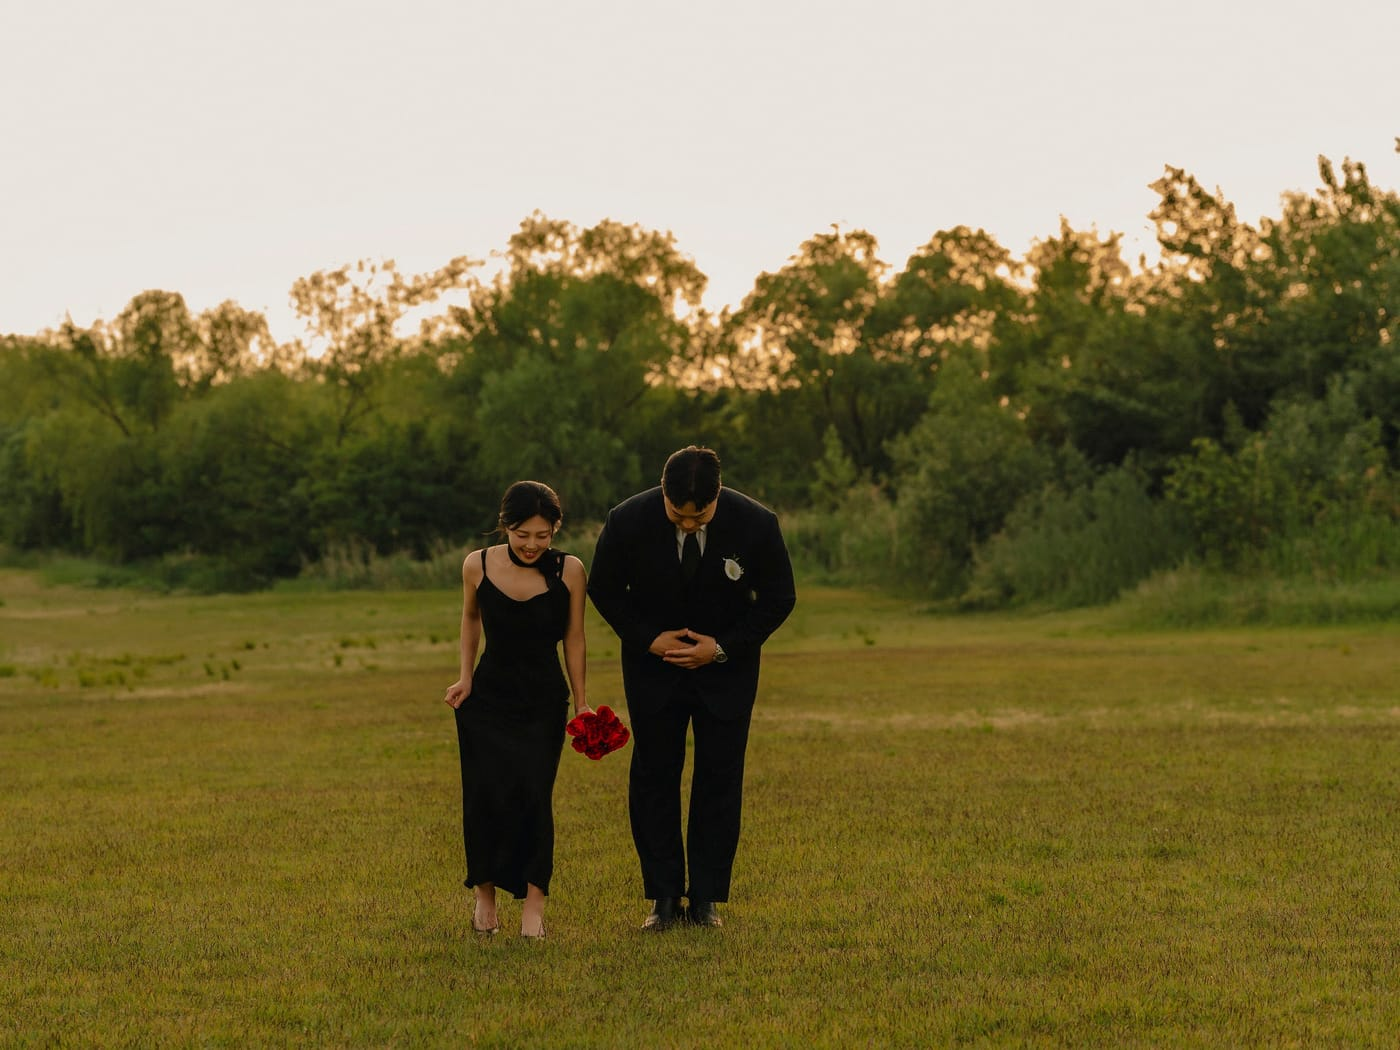
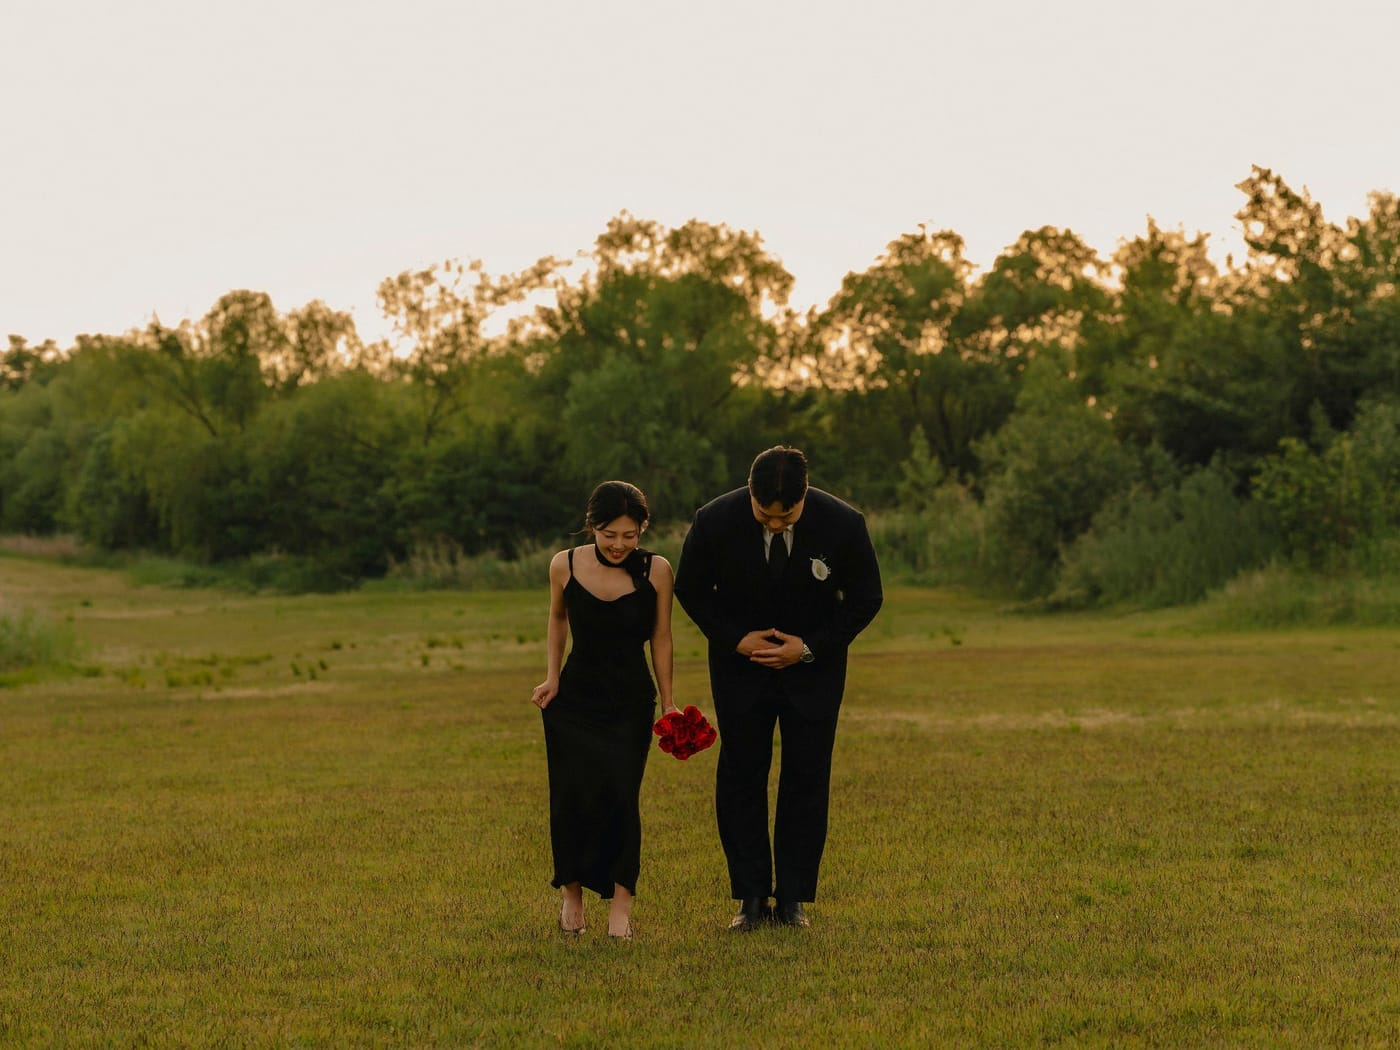
fix: 인물 사진 확대, 갤러리 뷰어 확대 기능, 마무리 사진 중앙 정렬, 크레딧 강조
1) 신랑·신부 카드 사진 확대
   카드가 작아 얼굴이 잘 보이지 않던 문제. 자동 크롭(attention) 대신
   좌표를 직접 지정해 상반신 위주로 잘라냈다. 신부는 특히 얼굴이
   크게 보이도록 조였고, 두 사람의 인물 크기를 서로 맞췄다.
   - build-photos.mjs 에 crop / position 옵션 추가
     (EXIF 회전을 먼저 적용해야 좌표가 눈에 보이는 사진과 일치한다)

2) 갤러리 사진 확대
   전체화면 뷰어에서 두 번 탭 또는 두 손가락으로 최대 4배까지 확대.
   확대 중에는 좌우 스와이프가 넘기기 대신 사진 이동으로 바뀌고,
   드래그 범위는 배율에 맞춰 계산한다. 사진을 넘기거나 ESC 를 누르면
   확대가 풀린다. 하단에 조작 안내 한 줄 추가.

3) 마무리 사진(ending-2) 중앙 정렬
   자동 크롭이 신랑을 화면 중앙에 두고 있었다. 가운데 크롭으로 바꿔
   두 사람 사이가 화면 정중앙에 오도록 했다.

4) 크레딧 강조
   한 줄을 베이지(accent) 세리프 13px 로 올리고, 나머지 설명은
   작은 회색으로 분리했다. ending.creditLead / ending.credit 으로 관리.

검증: tsc 0 / ESLint 0 / build 성공 /
뷰어 확대 366→878px(2.4배)·복원 확인, ending-2 중심선이 두 사람 사이에 위치 /
375·390·393·430·desktop 에서 console error 0, 가로 overflow 0,
탭·갤러리·혼주 연락처·계좌 복사·RSVP·방명록·터치 타깃 44px 전수 확인.

Claude-Session: https://claude.ai/code/session_01MQzpR4nb95WrMaxhiak1n4

diff --git a/src/components/GalleryViewer.tsx b/src/components/GalleryViewer.tsx
@@ -1,6 +1,12 @@
 "use client";
 
-import { AnimatePresence, motion, useReducedMotion, type PanInfo } from "framer-motion";
+import {
+  AnimatePresence,
+  motion,
+  useMotionValue,
+  useReducedMotion,
+  type PanInfo,
+} from "framer-motion";
 import Image from "next/image";
 import { ChevronLeft, ChevronRight, X } from "lucide-react";
 import { useCallback, useEffect, useRef, useState } from "react";
@@ -16,13 +22,30 @@ type Props = {
 
 const SWIPE_DISTANCE = 60;
 const SWIPE_VELOCITY = 380;
+/** 두 번 탭했을 때의 확대 배율 */
+const DOUBLE_TAP_ZOOM = 2.4;
+const MAX_ZOOM = 4;
 
 export function GalleryViewer({ images, startIndex, onClose }: Props) {
   const [[index, direction], setState] = useState<[number, number]>([startIndex, 0]);
   const [mounted, setMounted] = useState(false);
+  const [zoom, setZoom] = useState(1);
   const closeRef = useRef<HTMLButtonElement>(null);
   const draggedAt = useRef(0);
   const reduceMotion = useReducedMotion();
+
+  // 확대했을 때 사진을 움직이기 위한 값
+  const panX = useMotionValue(0);
+  const panY = useMotionValue(0);
+  const stageRef = useRef<HTMLDivElement>(null);
+  const imgRef = useRef<HTMLImageElement>(null);
+  const [panLimit, setPanLimit] = useState({ left: 0, right: 0, top: 0, bottom: 0 });
+
+  const resetZoom = useCallback(() => {
+    setZoom(1);
+    panX.set(0);
+    panY.set(0);
+  }, [panX, panY]);
 
   const paginate = useCallback(
     (delta: number) => {
@@ -36,6 +59,41 @@ export function GalleryViewer({ images, startIndex, onClose }: Props) {
   );
 
   useEffect(() => setMounted(true), []);
+
+  // 사진을 넘기면 확대 상태를 초기화한다.
+  useEffect(() => resetZoom(), [index, resetZoom]);
+
+  /** 현재 배율에서 사진을 얼마나 움직일 수 있는지 계산한다. */
+  const measurePanLimit = useCallback((scale: number) => {
+    const img = imgRef.current;
+    const stage = stageRef.current;
+    if (!img || !stage) return { left: 0, right: 0, top: 0, bottom: 0 };
+
+    // offsetWidth/Height 는 transform 의 영향을 받지 않는 배치 크기다.
+    const overflowX = Math.max(0, (img.offsetWidth * scale - stage.clientWidth) / 2);
+    const overflowY = Math.max(0, (img.offsetHeight * scale - stage.clientHeight) / 2);
+    return { left: -overflowX, right: overflowX, top: -overflowY, bottom: overflowY };
+  }, []);
+
+  const applyZoom = useCallback(
+    (next: number) => {
+      const scale = Math.min(MAX_ZOOM, Math.max(1, next));
+      const limit = measurePanLimit(scale);
+
+      setZoom(scale);
+      setPanLimit(limit);
+
+      // 배율이 줄면 화면 밖으로 나간 만큼 다시 안쪽으로 당겨준다.
+      panX.set(Math.min(limit.right, Math.max(limit.left, panX.get())));
+      panY.set(Math.min(limit.bottom, Math.max(limit.top, panY.get())));
+
+      if (scale === 1) {
+        panX.set(0);
+        panY.set(0);
+      }
+    },
+    [measurePanLimit, panX, panY],
+  );
 
   // body scroll lock (iOS Safari 포함)
   useEffect(() => {
@@ -65,7 +123,10 @@ export function GalleryViewer({ images, startIndex, onClose }: Props) {
   // 키보드 조작
   useEffect(() => {
     const onKeyDown = (e: KeyboardEvent) => {
-      if (e.key === "Escape") onClose();
+      if (e.key === "Escape") {
+        if (zoom > 1) resetZoom();
+        else onClose();
+      }
       if (e.key === "ArrowRight") paginate(1);
       if (e.key === "ArrowLeft") paginate(-1);
       if (e.key === "Tab") {
@@ -77,7 +138,7 @@ export function GalleryViewer({ images, startIndex, onClose }: Props) {
     window.addEventListener("keydown", onKeyDown);
     closeRef.current?.focus();
     return () => window.removeEventListener("keydown", onKeyDown);
-  }, [onClose, paginate]);
+  }, [onClose, paginate, resetZoom, zoom]);
 
   const onDragEnd = (_: unknown, info: PanInfo) => {
     const { offset, velocity } = info;
@@ -92,12 +153,54 @@ export function GalleryViewer({ images, startIndex, onClose }: Props) {
   const onBackdropClick = (e: React.MouseEvent<HTMLDivElement>) => {
     if (e.target !== e.currentTarget) return;
     if (performance.now() - draggedAt.current < 400) return;
+    if (zoom > 1) {
+      resetZoom();
+      return;
+    }
     onClose();
+  };
+
+  /* ── 두 손가락 확대 ─────────────────────────────────────── */
+  const pinch = useRef<{ distance: number; zoom: number } | null>(null);
+
+  const touchDistance = (touches: React.TouchList) => {
+    const [a, b] = [touches[0], touches[1]];
+    return Math.hypot(a.clientX - b.clientX, a.clientY - b.clientY);
+  };
+
+  const onTouchStart = (e: React.TouchEvent) => {
+    if (e.touches.length === 2) {
+      pinch.current = { distance: touchDistance(e.touches), zoom };
+    }
+  };
+
+  const onTouchMove = (e: React.TouchEvent) => {
+    if (e.touches.length !== 2 || !pinch.current) return;
+    const ratio = touchDistance(e.touches) / pinch.current.distance;
+    applyZoom(pinch.current.zoom * ratio);
+  };
+
+  const onTouchEnd = (e: React.TouchEvent) => {
+    if (e.touches.length < 2) pinch.current = null;
+  };
+
+  /* ── 두 번 탭해서 확대 ──────────────────────────────────── */
+  const lastTap = useRef(0);
+
+  const onImageTap = () => {
+    const now = performance.now();
+    if (now - lastTap.current < 320) {
+      applyZoom(zoom > 1 ? 1 : DOUBLE_TAP_ZOOM);
+      lastTap.current = 0;
+    } else {
+      lastTap.current = now;
+    }
   };
 
   if (!mounted) return null;
 
   const image = images[index];
+  const zoomed = zoom > 1;
 
   return createPortal(
     <motion.div
@@ -127,14 +230,18 @@ export function GalleryViewer({ images, startIndex, onClose }: Props) {
       </div>
 
       {/* 사진 */}
-      <div className="relative flex-1 overflow-hidden">
+      <div ref={stageRef} className="relative flex-1 overflow-hidden">
         <AnimatePresence initial={false} custom={direction} mode="popLayout">
           <motion.div
             key={index}
             custom={direction}
             className="absolute inset-0 flex items-center justify-center px-3 py-1"
             onClick={onBackdropClick}
-            drag="x"
+            onTouchStart={onTouchStart}
+            onTouchMove={onTouchMove}
+            onTouchEnd={onTouchEnd}
+            // 확대 중에는 좌우 스와이프(넘기기) 대신 사진을 움직인다.
+            drag={zoomed ? false : "x"}
             dragElastic={0.16}
             dragConstraints={{ left: 0, right: 0 }}
             onDragEnd={onDragEnd}
@@ -143,55 +250,73 @@ export function GalleryViewer({ images, startIndex, onClose }: Props) {
             exit={reduceMotion ? { opacity: 0 } : { opacity: 0, x: direction * -44 }}
             transition={{ duration: 0.34, ease: [0.22, 1, 0.36, 1] }}
           >
-            {/*
-              width/height 는 비율 힌트이고, 실제 표시 크기는 로드된 이미지의
-              고유 비율을 따른다. 덕분에 <img> 박스가 사진에 딱 맞아
-              그 바깥 여백을 누르면 닫히도록 만들 수 있다.
-            */}
-            <Image
-              src={image.src}
-              alt={image.alt}
-              width={1200}
-              height={1600}
-              sizes="100vw"
-              priority
-              draggable={false}
-              className="h-auto max-h-full w-auto max-w-full select-none object-contain"
-            />
+            <motion.div
+              className="flex h-full w-full items-center justify-center"
+              style={{ x: panX, y: panY, scale: zoom }}
+              drag={zoomed}
+              dragConstraints={panLimit}
+              dragElastic={0.05}
+              dragMomentum={false}
+              transition={{ type: "tween", duration: 0.25, ease: [0.22, 1, 0.36, 1] }}
+            >
+              {/*
+                width/height 는 비율 힌트이고, 실제 표시 크기는 로드된 이미지의
+                고유 비율을 따른다. 덕분에 <img> 박스가 사진에 딱 맞아
+                그 바깥 여백을 누르면 닫히도록 만들 수 있다.
+              */}
+              <Image
+                ref={imgRef}
+                src={image.src}
+                alt={image.alt}
+                width={1200}
+                height={1600}
+                sizes="100vw"
+                priority
+                draggable={false}
+                onClick={onImageTap}
+                className="h-auto max-h-full w-auto max-w-full select-none object-contain"
+              />
+            </motion.div>
           </motion.div>
         </AnimatePresence>
       </div>
 
       {/* 하단 — 이전 / 번호 / 다음 */}
       <div
-        className="relative z-10 flex items-center justify-center gap-6 px-4"
+        className="relative z-10 px-4"
         style={{ paddingBottom: "max(env(safe-area-inset-bottom), 14px)" }}
       >
-        <button
-          type="button"
-          onClick={() => paginate(-1)}
-          disabled={index === 0}
-          aria-label="이전 사진"
-          className="tap w-11 text-white/60 transition-opacity disabled:opacity-20"
-        >
-          <ChevronLeft size={20} strokeWidth={1.3} aria-hidden="true" />
-        </button>
+        <div className="flex items-center justify-center gap-6">
+          <button
+            type="button"
+            onClick={() => paginate(-1)}
+            disabled={index === 0}
+            aria-label="이전 사진"
+            className="tap w-11 text-white/60 transition-opacity disabled:opacity-20"
+          >
+            <ChevronLeft size={20} strokeWidth={1.3} aria-hidden="true" />
+          </button>
 
-        <p className="serif min-w-[64px] text-center text-[12px] tracking-[0.24em] text-white/70">
-          {String(index + 1).padStart(2, "0")}
-          <span className="mx-1 text-white/30">/</span>
-          {String(images.length).padStart(2, "0")}
+          <p className="latin min-w-[64px] text-center text-[12px] tracking-[0.24em] text-white/70">
+            {String(index + 1).padStart(2, "0")}
+            <span className="mx-1 text-white/30">/</span>
+            {String(images.length).padStart(2, "0")}
+          </p>
+
+          <button
+            type="button"
+            onClick={() => paginate(1)}
+            disabled={index === images.length - 1}
+            aria-label="다음 사진"
+            className="tap w-11 text-white/60 transition-opacity disabled:opacity-20"
+          >
+            <ChevronRight size={20} strokeWidth={1.3} aria-hidden="true" />
+          </button>
+        </div>
+
+        <p className="pb-1 text-center text-[11px] tracking-[0.02em] text-white/35">
+          {zoomed ? "두 번 탭하면 원래 크기로" : "두 번 탭하거나 두 손가락으로 확대할 수 있어요"}
         </p>
-
-        <button
-          type="button"
-          onClick={() => paginate(1)}
-          disabled={index === images.length - 1}
-          aria-label="다음 사진"
-          className="tap w-11 text-white/60 transition-opacity disabled:opacity-20"
-        >
-          <ChevronRight size={20} strokeWidth={1.3} aria-hidden="true" />
-        </button>
       </div>
     </motion.div>,
     document.body,

diff --git a/src/components/Ending.tsx b/src/components/Ending.tsx
@@ -8,6 +8,7 @@ export function Ending() {
   const { ending } = wedding;
   const endingImages: readonly GalleryImage[] = ending.images;
   const credit: readonly string[] = ending.credit;
+  const creditLead: string = ending.creditLead;
 
   return (
     <section aria-label="맺음말">
@@ -47,17 +48,25 @@ export function Ending() {
       </div>
 
       <footer className="edge pt-16 pb-[max(env(safe-area-inset-bottom),26px)] text-center">
-        {credit.length > 0 && (
+        {(creditLead || credit.length > 0) && (
           <>
-            {/* 아주 작게 남기는 한 줄 */}
-            <div className="mx-auto mb-5 h-6 w-px bg-line" aria-hidden="true" />
-            <p className="text-[11px] leading-[1.75] tracking-[0.01em] text-faint/85">
-              {credit.map((line, i) => (
-                <span key={i} className="block">
-                  {line}
-                </span>
-              ))}
-            </p>
+            <div className="mx-auto mb-6 h-6 w-px bg-line" aria-hidden="true" />
+
+            {creditLead && (
+              <p className="serif text-[13px] leading-[1.7] tracking-[0.01em] text-accent">
+                {creditLead}
+              </p>
+            )}
+
+            {credit.length > 0 && (
+              <p className="mt-2.5 text-[11.5px] leading-[1.8] tracking-[0.01em] text-faint">
+                {credit.map((line, i) => (
+                  <span key={i} className="block">
+                    {line}
+                  </span>
+                ))}
+              </p>
+            )}
           </>
         )}
 

diff --git a/src/config/wedding.ts b/src/config/wedding.ts
@@ -352,13 +352,12 @@ export const wedding = {
     signature: "Thank you",
     message: "우리의 시작을\n함께해 주세요.",
     /**
-     * 푸터에 아주 작게 들어가는 한 줄.
-     * 필요 없으면 빈 배열로 두세요.
+     * 푸터에 들어가는 짧은 인사.
+     * creditLead 는 강조(베이지)로, creditBody 는 작은 회색으로 표시됩니다.
+     * 필요 없으면 빈 문자열 / 빈 배열로 두세요.
      */
-    credit: [
-      "이 청첩장은 화면 구성부터 배경음악까지",
-      "신랑이 신부와 하객분들을 위해 직접 만들었습니다.",
-    ],
+    creditLead: "화면 구성부터 배경음악까지, 신랑이 직접 만들었습니다.",
+    credit: ["신부와 하객분들을 생각하며 한 장 한 장 담았습니다.", "함께해 주셔서 감사합니다."],
   },
 
   /* ── 공유 / SEO ───────────────────────────────────────── */

diff --git a/README.md b/README.md
@@ -34,7 +34,7 @@ npm run lint       # ESLint
 05 웨딩 인터뷰        버튼 → 모달   (기본 꺼짐)
 06 예식 안내          일시·장소 + 사진 + 달력
 07 D-DAY             남은 날짜
-08 갤러리             3열 그리드 + 전체화면 뷰어
+08 갤러리             3열 그리드 + 전체화면 뷰어(확대 가능)
 09 우리의 시간        타임라인      (기본 꺼짐)
 10 게스트스냅         안내 + 업로드 버튼
 11 안내 탭            주차안내 / 포토부스 / 답례품
@@ -70,7 +70,7 @@ npm run lint       # ESLint
 | 계좌번호 | `accounts` | **교체 필요** |
 | 교통 안내 | `location.transport` | **예식장 안내로 확인 필요** |
 | 생년월일 · 키워드 | `groom.birth`, `groom.keywords` | 비어 있음 (입력하면 표시) |
-| 푸터 크레딧 | `ending.credit` | 신랑이 직접 만들었다는 한 줄 (빈 배열로 두면 숨김) |
+| 푸터 크레딧 | `ending.creditLead`(강조), `ending.credit` | 신랑이 직접 만들었다는 인사 (비우면 숨김) |
 
 > `wedding.date` 만 바꾸면 요일 · 달력 · D-day · 영문 날짜가 모두 자동으로 다시 계산됩니다.
 
@@ -99,6 +99,8 @@ public/images/wedding/
 
 사진을 바꾸려면 `scripts/build-photos.mjs` 의 `PICKS` / `GALLERY` 에서
 파일명만 고치고 다시 실행하면 됩니다.
+`crop: { left, top, width, height }` 을 지정하면 그 영역만 잘라내므로
+인물을 더 크게 보여주고 싶을 때 쓸 수 있습니다. (신랑·신부 카드가 이 방식입니다)
 
 ```bash
 PHOTO_SRC=/원본이/있는/폴더 node scripts/build-photos.mjs
@@ -251,6 +253,9 @@ src/
   나머지 섹션도 서버 렌더링 시점에 "보이는 상태"로 출력한 뒤
   화면 아래에 있는 요소만 등장 애니메이션 대상으로 전환합니다.
 - 첫 화면 높이는 `92svh`, 노치·홈 인디케이터는 `env(safe-area-inset-*)` 로 처리했습니다.
+- 갤러리 뷰어는 **두 번 탭 / 두 손가락으로 확대**할 수 있고(최대 4배),
+  확대한 상태에서는 좌우 스와이프가 넘기기 대신 사진 이동으로 바뀝니다.
+  사진을 넘기면 확대는 자동으로 풀립니다.
 - 갤러리 뷰어와 모달은 열릴 때 body 스크롤을 잠그고 닫을 때 원래 위치로 복원합니다.
 - 모든 터치 영역은 44px 이상입니다.
 
